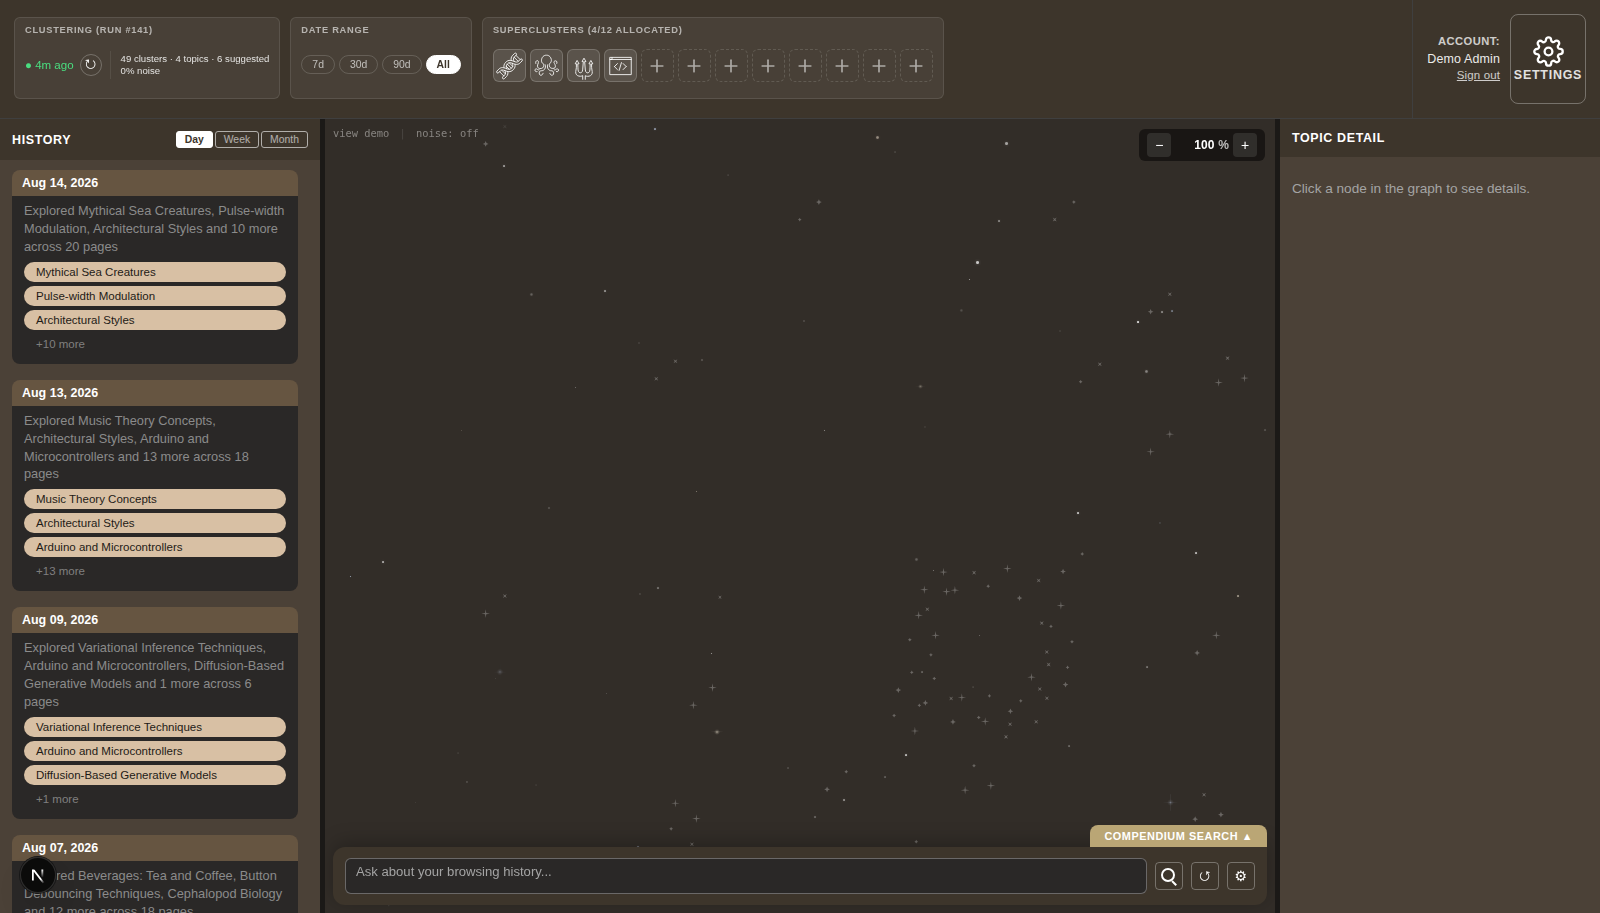
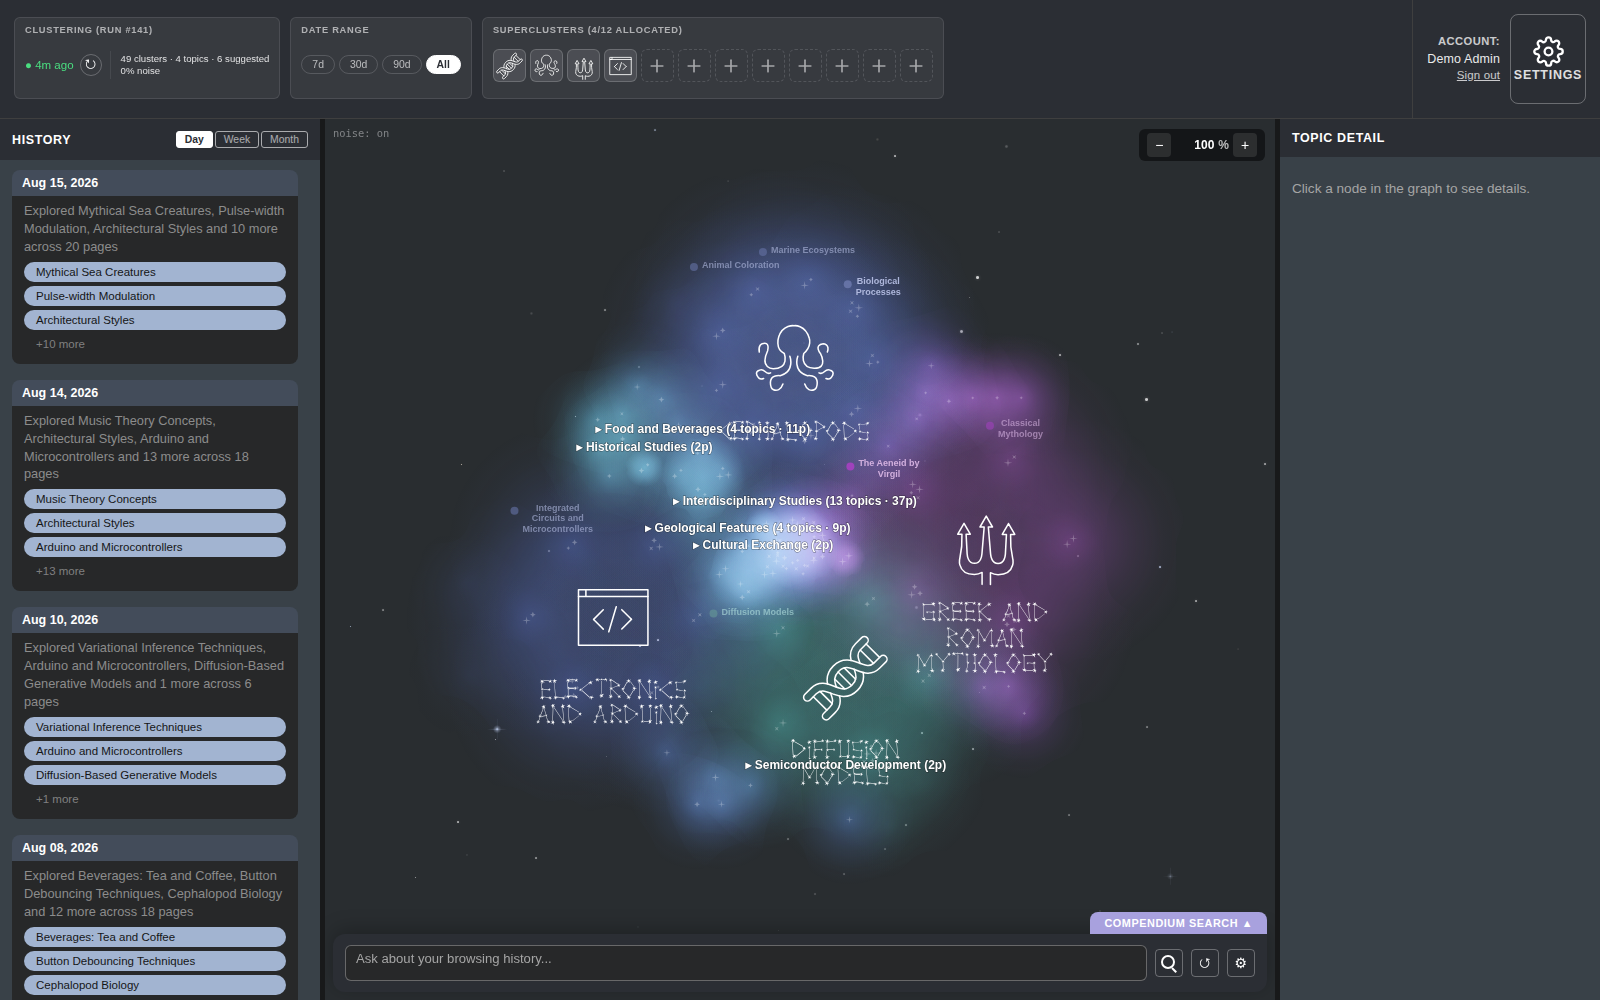
docs: rewrite readme for default-off role gating

diff --git a/README.md b/README.md
@@ -2,10 +2,10 @@
 
 ![CI](https://github.com/skaniti/compendium/actions/workflows/ci.yml/badge.svg)
 
-Turn curiosity-driven browsing into a topic-based knowledge compendium: every
-page you read gets clustered into topics, laid out as an explorable
-constellation graph, and made queryable through a RAG chat agent that cites
-its sources back onto the graph.
+I built Compendium to turn curiosity-driven browsing into a topic-based
+knowledge compendium: every page you read gets clustered into topics, laid
+out as an explorable constellation graph, and made queryable through a RAG
+chat agent that cites its sources back onto the graph.
 
 ![Compendium app shell -- diary panel, constellation graph, topic detail](docs/readme/app-shell.png)
 
@@ -34,35 +34,27 @@ topic detail, and chat are all live from the first paint.
 
 ## Demo notes
 
-**Accounts.** The stub implements a full login/logout/refresh flow against
-two fixed accounts:
+**Identity.** `npm run demo` gives you one identity with full control over a
+local, synthetic compendium -- nothing to log into, nothing to configure. The
+source also contains a demo/admin/view-as role system that backs my hosted
+deployment; it's off by default here, gated behind `DEMO_ROLE_TOOLING` (stub
+side) and `NEXT_PUBLIC_DEMO_ROLE_TOOLING` (frontend side), so a stranger
+running the demo never sees it. The app still has a `/login` page -- I'm not
+documenting credentials for it, since the default demo flow never needs it.
 
-| Email               | Password | Role  |
-| ------------------- | -------- | ----- |
-| `admin@demo.local`  | `admin`  | admin |
-| `demo@demo.local`   | `demo`   | demo  |
+**Data.** I curated the demo compendium from real, publicly licensed web
+pages (Wikipedia, arXiv, GitHub, Stack Exchange, and a few others) spanning
+four topics -- diffusion models, Greek/Roman mythology, electronics/Arduino,
+and cephalopods -- respread across a plausible browsing timeline that stays
+"recent" no matter when you clone the repo. Full source list and licensing
+notes: `demo/fixtures/ATTRIBUTION.md`.
 
-You can log in as either. Logging in directly as the demo account is
-write-gated: mutations (topic edits, exclusions, preference writes, etc.) get
-rejected. Logging in as admin unlocks a "view as demo" control (in the
-graph's debug overlay, top-left of the canvas) that lets an admin browse the
-demo account's view while retaining full write access, plus a "return to
-admin" control to switch back -- the same admin/demo/view-as loop the hosted
-deployment uses.
-
-**Data.** The demo compendium is a curated snapshot of real, publicly
-licensed web pages (Wikipedia, arXiv, GitHub, Stack Exchange, and a few
-others) spanning four topics -- diffusion models, Greek/Roman mythology,
-electronics/Arduino, and cephalopods -- respread across a plausible browsing
-timeline that stays "recent" no matter when you clone the repo. Full source
-list and licensing notes: `demo/fixtures/ATTRIBUTION.md`.
-
-**Chat.** The search bar at the bottom of the graph replays 12 recorded
-question/answer runs from the real agent (`demo/fixtures/chat/index.json`
-lists the exact questions) token-by-token over SSE, complete with source
-pills that frame the cited nodes back on the graph. Anything else typed in
-falls back to a response that explains demo mode and suggests a question
-from the list.
+**Chat.** I recorded 12 real question/answer runs from the live agent
+(`demo/fixtures/chat/index.json` lists the exact questions); the search bar
+at the bottom of the graph replays them token-by-token over SSE, complete
+with source pills that frame the cited nodes back on the graph. Anything else
+typed in falls back to a response that explains demo mode and suggests a
+question from the list.
 
 **Mutations.** Topic edits, exclusions, and preference writes persist for the
 life of the stub process and reset on restart; `Recluster` waits a couple of
@@ -83,7 +75,7 @@ headlessly via jsdom.
 
 ## Architecture
 
-- **Frontend:** Next.js (App Router), the whole UI you see above -- graph
+- **Frontend:** Next.js (App Router) -- the whole UI you see above: graph
   canvas, diary/history panel, topic detail, header widgets, and the chat
   search bar.
 - **API proxy:** `app/api/[...path]/route.ts` forwards every `/api/*` call
@@ -116,12 +108,14 @@ project and will land here as the migration continues.
 
 ## Known limitations
 
-Graph rendering currently depends on noise proportion, and eliminating the
-dependency is tracked as follow-up work. Relatedly: this OSS build has no
-dev/admin split on the noise toggle or the admin-only graph controls --
-gating hides nothing in source you can read yourself. The role mechanics
-(admin/demo/view-as) stay in place because they serve the hosted deployment,
-not because anything here is locked down from you.
+Graph rendering currently depends on noise proportion; eliminating that
+dependency is tracked as follow-up work. The noise toggle and the admin-only
+graph controls aren't gated in this build -- the source is right there if you
+want to see them. The demo-account and view-as machinery is different: it
+exists for my hosted deployment, and I gate it off by default here
+(`DEMO_ROLE_TOOLING` / `NEXT_PUBLIC_DEMO_ROLE_TOOLING`) so a stranger's first
+run stays a single, uncomplicated identity. `scripts/dev.sh` sets both flags
+if you want that machinery running locally.
 
 ## Conventions
 
@@ -129,8 +123,7 @@ not because anything here is locked down from you.
   `type: subject`, lowercase, no AI attribution, enforced by a husky
   `commit-msg` hook.
 - **Pushes are gated:** the `pre-push` hook refuses to push unless
-  `ALLOW_PUSH=1` is set. Deliberate friction -- pushing is a conscious act in
-  this repo.
+  `ALLOW_PUSH=1` is set. I want pushing to be a conscious act in this repo.
 - **Line endings:** LF repo-wide, enforced via `.gitattributes`.
 
 ## License
